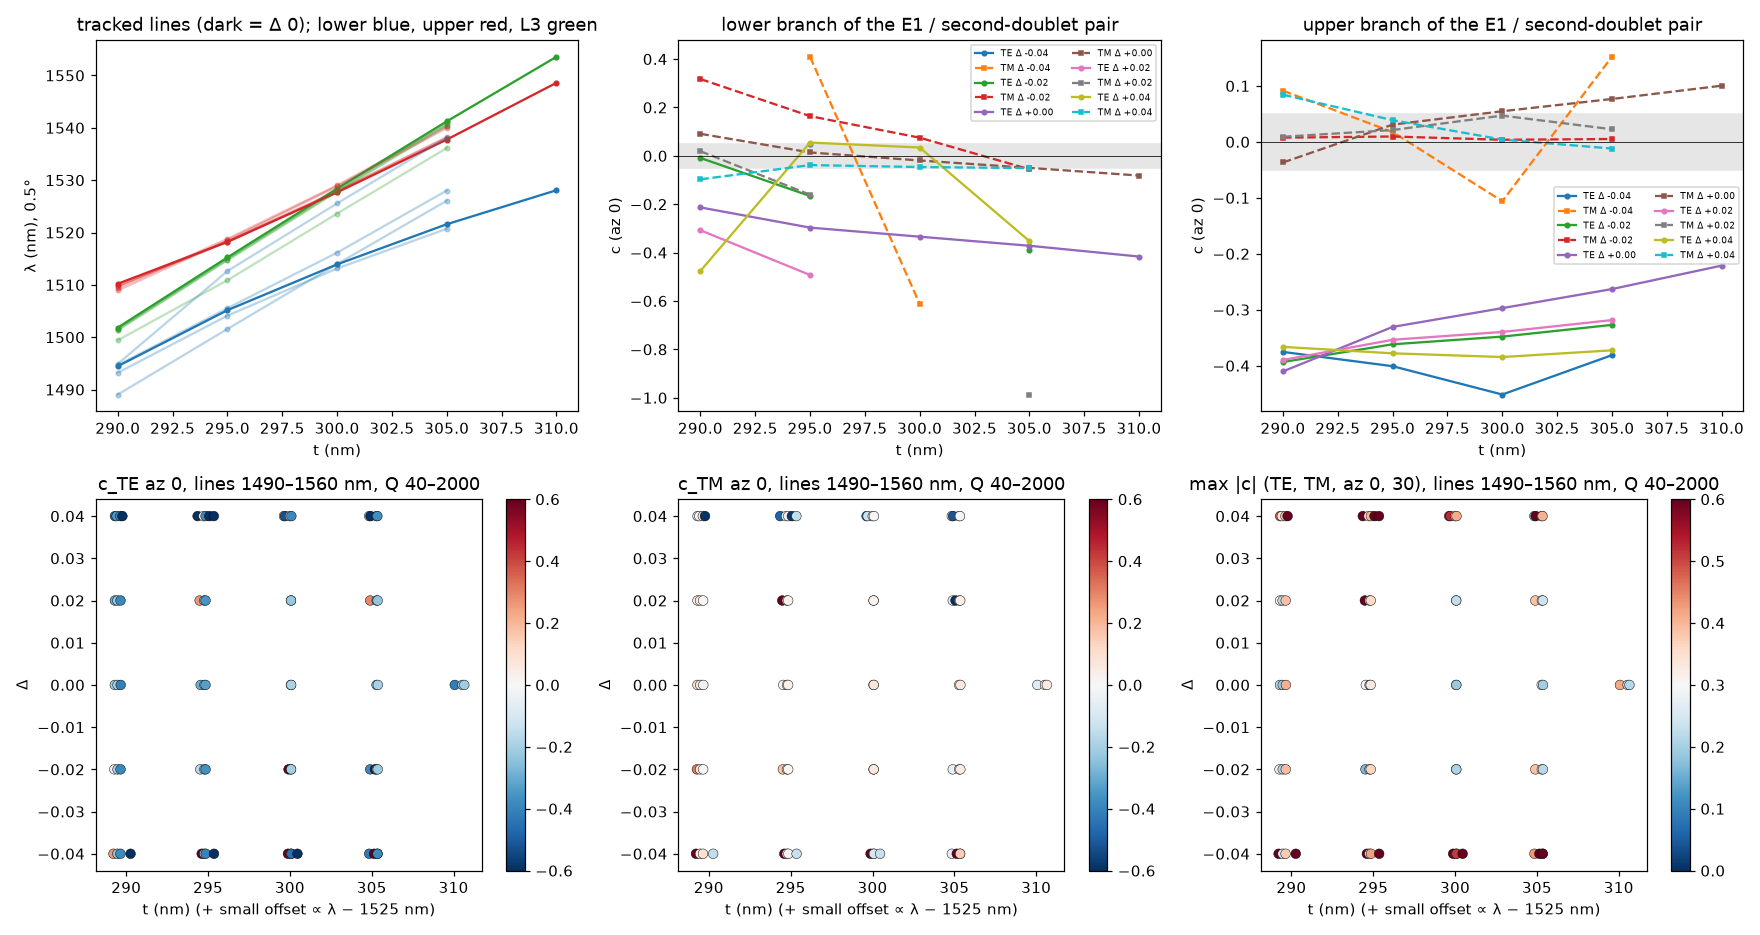
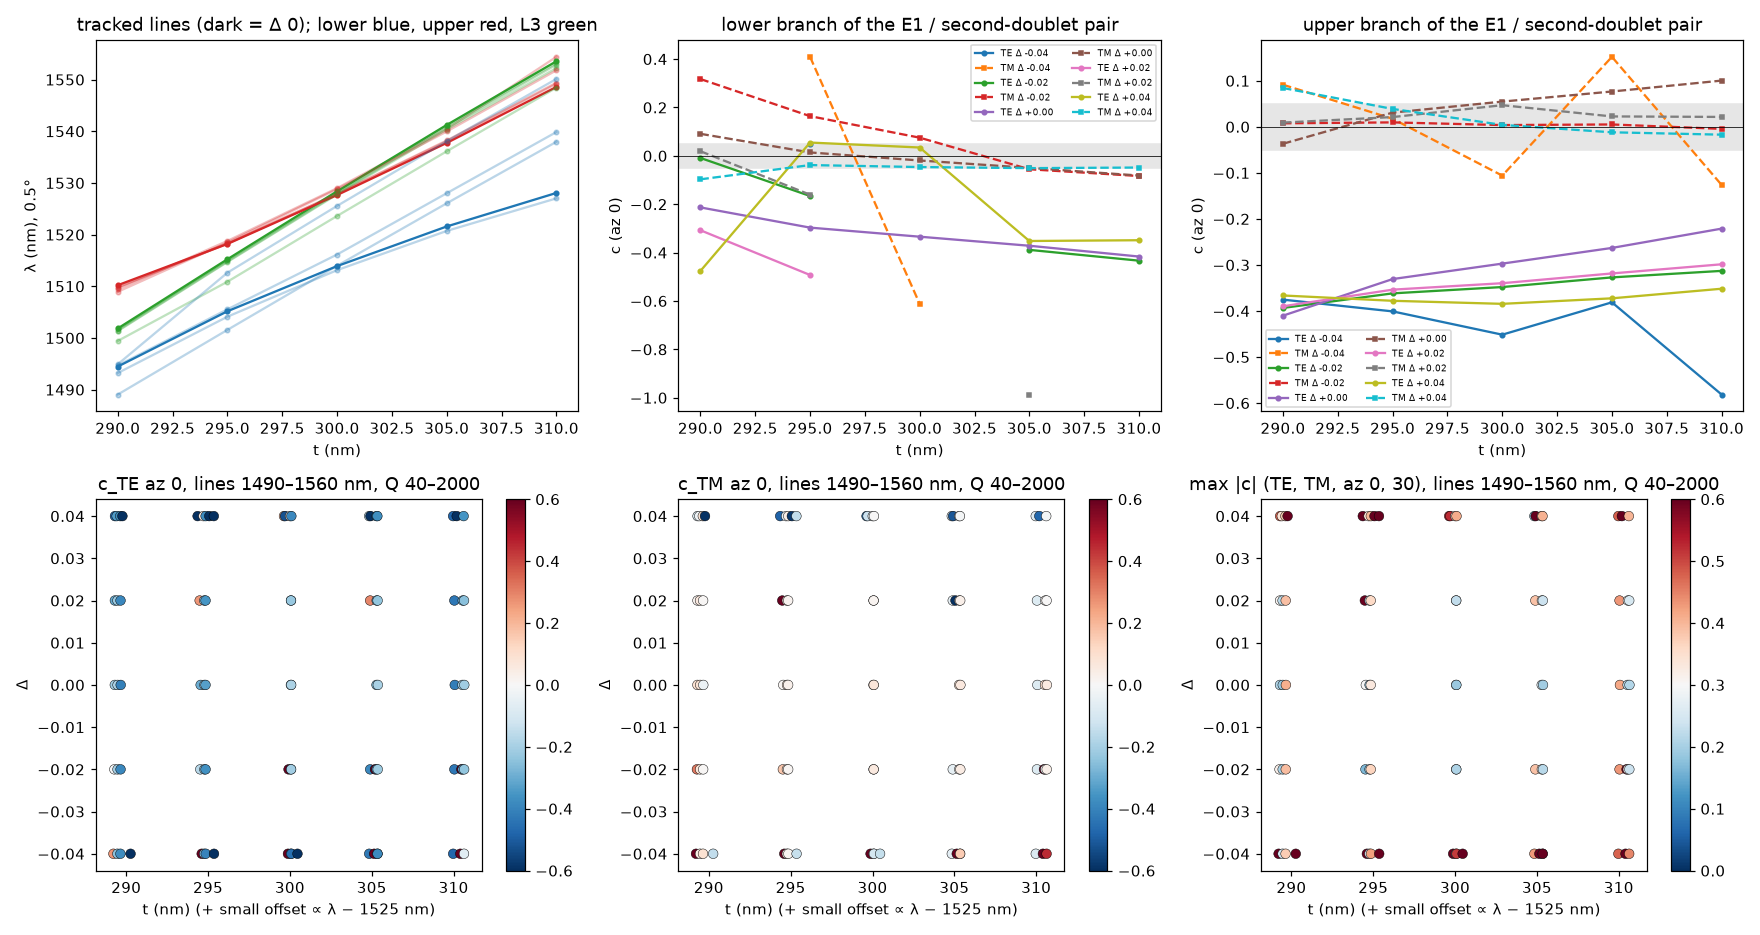
T21 to review: negative (best worst|M| 3.0); TE curvature stays negative through the E1/doublet anticrossing; qmatch fix

diff --git a/inverse/t21_analyze.py b/inverse/t21_analyze.py
@@ -28,7 +28,9 @@ def qmatch(p, pl3):
     qlo, qhi = (0.5, 2) if p["Q"] < 2000 else (0.2, 5)    # high-Q lines change Q fast with angle
     c = [q for q in pl3 if abs(q["lam"] - p["lam"]) < tol and qlo < q["Q"] / p["Q"] < qhi]
     if not c: return None
-    q = min(c, key=lambda q: abs(q["lam"] - p["lam"]))
+    # 16:40 fix: when two candidates lie within tol, pick by Q ratio AND distance in linewidths (nearest-lambda alone
+    # took the Q 40 neighbour for the Q 74 line at D +0.04 t 310 and gave a false c_TE -0.06)
+    q = min(c, key=lambda q: abs(np.log(q["Q"] / p["Q"])) + abs(q["lam"] - p["lam"]) * p["Q"] / p["lam"])
     return (q["lam"] - p["lam"]) / p["lam"] / S2
 
 

diff --git a/TASKS.md b/TASKS.md
@@ -47,7 +47,7 @@ States: `todo` → `doing` → `review` → `done` (or `blocked`, with the reaso
 | T19c | done | **Analysis of T19a against T19b.** (1) Local transmitted field over one moiré cell, t_σ(r) = Σ_mn t_mn,σ e^{i q_mn·r} on a ~101×101 grid; local T_σ(r) and CD(r) = T_σ+(r) − T_σ−(r). (2) Zeroth-order check: T_LPA(r) = T19b at the local shift δ(r) = (R(θ) − 1)r mod a; report the rms difference of T(r) and the size of CD(r) (LPA gives 0). Use it also to confirm where AA sits (the map must equal the aligned spectrum there). (3) At AA: CD_AA(λ, θ); parity CD_AA(−θ) = −CD_AA(θ); fit CD_AA = κ(λ)·θ (+ cubic) over the θ list → κ per degree at the best λ; also Δλ and ΔQ of the AA line vs θ (expected second order). (4) Aperture: CD averaged over a disc of diameter D = 10, 20, 50 µm centred at AA, vs θ (only where D < a/θ). (5) Estimate the mode's in-plane propagation length L (from where the map departs from the LPA) and say for which θ the AA result is valid. | table + figure (1° map rcwa4d vs LPA; CD_AA vs θ; aperture CD vs θ) in the T19a folder, NOTE.md | after T19a and T19b; the controller re-checks κ **Accepted (2026-11-23 13:45):** point CD_AA not converged at N ≤ 8, bound ≲ 0.01–0.015 on the main line for θ ≤ 1°, no κ. Disc CD at AA converged at 1°: D 20 µm +0.0178 at 1505.5 nm (N 6/7/8: 0.0174/0.0179/0.0178), D 10 µm 0.006; 0.5°: D 20 µm +0.004 (±0.004); 0.25°: unresolved (D 50 µm ≲ 0.004). CD(−θ) = −CD(θ) exactly. LPA holds at 0.25° and fails at 1° (L ~ 10 µm). Follow-up: T19d. |
 | T20 | done | **Fix the TE/TM keys of `inverse/model.py` (start only after T16c and T19c are done).** Swap the keys so that `TE`/`TM` (and `t_TE`, `t_TM`, the cross terms, the x/y amplitude blocks) are the physical ones; update every script in `inverse/` that reads them consistently (analyze, find_resonances, sharp_table, spectra, check_azimuth, the hex and wedge scripts, optimize.py objectives); rerun `check_pol_labels.py` (key TM must give T = 1 at the Brewster angle) and one old analysis to show only the names changed; dated note at the top of model.py. Old run folders keep their old keys: list the rule in `docs/POLARIZATION_NOTE.md`. Also run the stripes test with rcwa4d-mf (E along the stripes must see the higher index) and state its x/y convention, since the sign of CD depends on it. | check output, one-line diff summary in NOTE.md | blocked until T16c and T19c are done, so running jobs do not mix conventions **Accepted (2026-11-23 13:45):** pure rename (difference 0.0), Brewster key T_TM = 1.000000, prelim reproduces T1 with the names swapped; rcwa4d-mf uses lab x/y. CLAUDE.md updated. |
 | T19d | done | **A3/C — does the disc CD at AA scale like θ at a fixed fraction of the moiré cell? (GPU, rcwa4d-mf; follow-up of T19c).** Same structure and setup as T19a. (1) Post-processing first, no new solves: disc CD at AA (same definition, `twist_aperture_cd.py`) at fixed D/cell = 0.25, 0.4 and 0.56 for every (θ, N) already in `amps/`; main line and full band. (2) N 7 at +2° (cell 17.8 µm). (3) N 8 at +0.5°. Report max \|CD\| on the main line per D and per N with the last-two-N difference, for D = 10, 20, 50 µm and for the D/cell fractions. | table + one figure (main-line CD vs θ at fixed D/cell and at fixed D, error bar = last-two-N difference), NOTE.md, in `runs/<..>_T19d_twist_scaling/` (reuse the T19a amps) | ~1.5 h GPU (N 8 at 1° took 63 min). Why: at 1°, D 20 µm (56 % of the cell) gives +1.8 %, at 0.5° D 20 µm (28 %) only +0.4 %. If the CD at a fixed D/cell grows ∝ θ, the signed twist readout has a simple scaling law. Run in parallel with T21 (CPU) **Accepted (2026-11-23 16:15):** with the spot scaled to the moiré period, the main-line peak CD at AA is ∝ θ. D/cell 0.4: +0.31 / +0.58 / +1.02 / +2.17 % at 0.25 / 0.5 / 1 / 2° (two highest N agree within 0.02–0.05 %), κ = 1.1 %/deg. D/cell 0.56: 2.0 %/deg for 0.5–2° (0.25° not converged). At fixed D there is no simple law (θ mixes with D/cell). 0.5° N 8 wavelengths with \|R+T−1\| > 1e-3 (1512–1526 nm) dropped. Figure `docs/figs/T19d_twist_cd_vs_twist.png`. |
-| T21 | doing | **B — E1 meets the second bright doublet: both polarizations flat near t ≈ 300 nm? (CPU, fmmax, physical keys).** T16c supercell (hex √3×√3, a 850, mean r/a 0.25, r1 at the origin, r2 at the other two sites; 240/160; θ 0.5/3/6°, azimuth 0 and 30°; T16b Q-matched slope). In T16c the gap-tunable E1 line (Δ flattens TM, c_TE stuck near −0.46) sits 32 nm above the second bright doublet at t 280 (1467 nm, c_TE −0.16, c_TM +0.16; dark folded singlets nearby flip its TE curvature at Δ ≈ −0.03) and 34 nm below it at t 320 (1572 vs 1538 nm). So the two cross near t ≈ 300 nm, which was not scanned. Scan t ∈ {290, 295, 300, 305, 310} × Δ ∈ {0, ±0.02, ±0.04} at gap 380 (25 points). At each point: all bright lines in 1440–1600 nm with λ, Q, c_TE and c_TM at both azimuths; follow E1 and the second doublet through the crossing by continuity; list dark singlets (λ, Q) within ±10 nm of them. | per-point table; maps of c_TE and c_TM of the lines near the crossing over (t, Δ); NOTE.md. For any line with \|c_TE\|, \|c_TM\| ≤ 0.05 at both azimuths: λ at gap 340/380/420 (tuning %), Q, and a 3× resolution spot check. Otherwise the closest point and how far it is from \|M\| ≥ 10 | ~3 h CPU at the T16c rate. Stop early and report if none of the first 15 points has a line with both \|c\| ≤ 0.15. Why: E1 ⊗ E1 contains E1, so near the crossing the two doublets mix at first order in k and both curvatures change fast; the gap moves E1 (+9 nm per 80 nm) but hardly the second doublet (+2 nm), so near the crossing the gap is a second knob. Results with physical keys only (store `pol_keys`) |
+| T21 | review | **B — E1 meets the second bright doublet: both polarizations flat near t ≈ 300 nm? (CPU, fmmax, physical keys).** T16c supercell (hex √3×√3, a 850, mean r/a 0.25, r1 at the origin, r2 at the other two sites; 240/160; θ 0.5/3/6°, azimuth 0 and 30°; T16b Q-matched slope). In T16c the gap-tunable E1 line (Δ flattens TM, c_TE stuck near −0.46) sits 32 nm above the second bright doublet at t 280 (1467 nm, c_TE −0.16, c_TM +0.16; dark folded singlets nearby flip its TE curvature at Δ ≈ −0.03) and 34 nm below it at t 320 (1572 vs 1538 nm). So the two cross near t ≈ 300 nm, which was not scanned. Scan t ∈ {290, 295, 300, 305, 310} × Δ ∈ {0, ±0.02, ±0.04} at gap 380 (25 points). At each point: all bright lines in 1440–1600 nm with λ, Q, c_TE and c_TM at both azimuths; follow E1 and the second doublet through the crossing by continuity; list dark singlets (λ, Q) within ±10 nm of them. | per-point table; maps of c_TE and c_TM of the lines near the crossing over (t, Δ); NOTE.md. For any line with \|c_TE\|, \|c_TM\| ≤ 0.05 at both azimuths: λ at gap 340/380/420 (tuning %), Q, and a 3× resolution spot check. Otherwise the closest point and how far it is from \|M\| ≥ 10 | ~3 h CPU at the T16c rate. Stop early and report if none of the first 15 points has a line with both \|c\| ≤ 0.15. Why: E1 ⊗ E1 contains E1, so near the crossing the two doublets mix at first order in k and both curvatures change fast; the gap moves E1 (+9 nm per 80 nm) but hardly the second doublet (+2 nm), so near the crossing the gap is a second knob. Results with physical keys only (store `pol_keys`) |
 | T4 | done | Check the best design along the lattice diagonal (azimuth 45°): add an `azimuth` argument to `model.py` | TE and TM \|M\| ≥ 10 at 45° as well | needed for "all azimuths"; runs/20261120-1148_azimuth45 **not met** (45°: TM \|M\| 12 / 4.7 at gap 260 / 320, TE lost after 3°) |
 | T5 | deferred | High-resolution check of the best design: `analyze.py --n_terms 200 --ngrid 192` | numbers change < 10 % from the optimization resolution | required before the controller uses a design in the proposal |
 

diff --git a/runs/20261123-1326_T21_E1_doublet_cross/NOTE.md b/runs/20261123-1326_T21_E1_doublet_cross/NOTE.md
@@ -1,0 +1,7 @@
+# T21 — E1 meets the second bright doublet (hex √3×√3, gap 380), physical keys
+- Run: 25 points, t 290–310 nm (5 nm steps) × Δ 0, ±0.02, ±0.04. Settings: fmmax CPU, n_terms 240, ngrid 160. Spectra at 1440–1600 nm in 0.5 nm steps, θ 0.5° (az 0) and 3° (az 0, 30). Q-matched curvature c, M = −1/(2c). `pol_keys` physical. Analysis: `inverse/t21_analyze.py` (QMAX 1e6). Table in `table.csv`, tracks in `analysis.json`.
+- **Result: no line has all four |c| ≤ 0.05, and no line has all four ≤ 0.15.** The closest is Δ −0.02, t 295, 1504.1 nm, Q 633: c_TE −0.17/−0.15, c_TM +0.16/+0.15, so worst |M| is 3.0 against the target of 10. Next best: Δ +0.04, t 305, 1518.1 nm, Q 1068 (c_TE −0.18/−0.11, worst |M| 2.75), then L3 at Δ 0 (c_TE −0.19, worst |M| 2.65).
+- Δ 0 physics: E1 and the second doublet anticross near t 297 with a minimum gap of about 13 nm. It is Friedrich–Wintgen-like: the lower branch reaches Q 11 600 at 1513.9 nm, t 300, while the upper branch stays at Q ~55. Curvatures interpolate between the unmixed lines. TM crosses zero on both branches, but **TE stays negative**, because both parents have c_TE < 0: lower branch −0.21 → −0.42, upper branch −0.41 → −0.22. L3 runs parallel and is unchanged, at c_TE ≈ −0.19 to −0.21.
+- Δ ≠ 0: the lower branch becomes high-Q (Q > 1e4) at several points, and its 3° partner is then often missing, so c is NaN. On the upper branch c_TE stays between −0.30 and −0.45. Nothing pushes TE toward zero.
+- Analysis fix (16:40): the 3° pole match now picks by Q ratio plus distance in linewidths, instead of nearest λ only. The old rule gave a false candidate at Δ +0.04, t 310, 1551.8 nm (Q 74), worst |M| 8.7. There it had matched the neighbouring Q 40 line at 1551.6 nm. With the correct partner (Q 85, 1550.3 nm), c_TE is −0.35/−0.40 and worst |M| is 1.2. Only 2 of the tracked values changed.
+- Meaning: at this geometry, crossing E1 with the second doublet cannot cancel c_TE at first order. A different knob is needed for TE, for example a line whose parents have opposite c_TE. Not done: gap 340/420, the 6° check, and 3× resolution (no candidate qualified for them). GPU check: Δ 0, t 300 matches the CPU result exactly (`gpu_check/`).

diff --git a/BOARD.md b/BOARD.md
@@ -1075,3 +1075,11 @@ Format:
 - **T21:** read 16:05, thanks; the Friedrich–Wintgen picture (one branch near-dark, Q 11 600 at t 300) and "TM passes through zero on both branches,
   TE cannot" are clear. Finish the last 4 points and the NOTE as planned; I decide the next B step after reading it. Good to know fmmax runs 2.4× faster on
   the GPU: for any further fmmax scan, use the GPU and the CPU together.
+
+### 2026-11-23 16:45  gpu → cloud   (T21 → review)
+- `runs/20261123-1326_T21_E1_doublet_cross/NOTE.md`, `analysis.png`, `table.csv`, `analysis.json`. All 25 points done (t 290–310 × Δ 0/±0.02/±0.04, gap 380, n_terms 240, ngrid 160, physical keys).
+- **Negative.** No line has all four |c| (TE/TM, az 0/30) ≤ 0.15, so none is ≤ 0.05. The closest is unchanged from 16:05: Δ −0.02, t 295, 1504.1 nm, Q 633, worst |M| 3.0 against the target of 10.
+- The t 310 points add nothing new. On both branches c_TE keeps the trend from 16:05: lower −0.42, upper −0.22 at Δ 0. Off Δ 0 the upper-branch c_TE stays between −0.30 and −0.45.
+- **Analyzer fix (decision):** the first pass flagged Δ +0.04, t 310, 1551.8 nm (Q 74) with worst |M| 8.7. That was a pole mis-match. The 3° pole nearest in λ was the neighbouring Q 40 line, 2 nm away. I changed `qmatch` in `inverse/t21_analyze.py` to choose by |ln Q ratio| + |Δλ|/linewidth. With the correct partner (Q 85), c_TE is −0.35/−0.40 and worst |M| is 1.2. Only 2 tracked values changed. Reason: the Q 74 → Q 85 continuation is the obvious one (similar weight and Q), and the Q 40 line is a separate line already present at 0.5°.
+- Gap 340/420, the 6° check and the 3× resolution check were not run, because no line qualified.
+- The queue has no other todo. I am posting "queue empty" and waiting for the next B step.

diff --git a/STATUS.md b/STATUS.md
@@ -66,3 +66,4 @@ One line per run, newest at the bottom: `date | runs/ folder | state (running/do
 | 2026-11-23 | runs/20261123-1327_T19d_twist_scaling | running | T19d 15:05: N 8 at +0.5° still running (ETA ~15:30); 2° N 7 post-processed (D/cell 0.4 / 0.56: +0.022 / +0.041, N 6 − N 7 at peak ≤ 0.001) |
 | 2026-11-23 | runs/20261123-1327_T19d_twist_scaling | review | T19d: at fixed D/cell 0.4 main-line disc CD ∝ θ: 0.0031/0.0058/0.0102/0.0217 at 0.25/0.5/1/2°, κ = 0.011 per degree (0.020 at D/cell 0.56). Fixed D: no simple law. 0.5° N 8 has \|R+T−1\| up to 5e-2 at 7 λ in 1512–1526 nm (dropped) |
 | 2026-11-23 | runs/20261123-1326_T21_E1_doublet_cross | running | T21 16:05: 21/25 points; stop rule met (no line with all four \|c\| ≤ 0.15 in the first 15; best max \|c\| 0.166). Last 4 points (t 310, Δ ±0.02/±0.04) running, ETA ~16:35 |
+| 2026-11-23 | runs/20261123-1326_T21_E1_doublet_cross | review | T21: 25/25 points. No line with all four \|c\| ≤ 0.15 (target ≤ 0.05). Best: Δ −0.02, t 295, 1504.1 nm, Q 633, c_TE −0.17/−0.15, c_TM +0.16/+0.15, worst \|M\| 3.0 (target 10). Anticrossing at t ≈ 297: TM passes through zero, TE stays < 0 on both branches |
